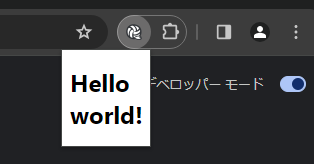
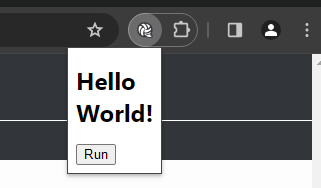
[update]ex03 - Add options

diff --git a/my-extension/options.html b/my-extension/options.html
@@ -1,0 +1,22 @@
+<!DOCTYPE html>
+<html>
+<style>
+.color {
+  width: 4rem;
+  height: 3rem;
+  margin: .5rem;
+  color: #666;
+  border: 0;
+}
+</style>
+<body>
+  <h1>Options</h1>
+  <div>
+    <button class="color" style="background: #fcc">Pink</button>
+    <button class="color" style="background: #cfc">Green</button>
+    <button class="color" style="background: #ccf">Blue</button>
+  </div>
+  <div id="msg"></div>
+  <script src="options.js"></script>
+</body>
+</html>

diff --git a/my-extension/options.js b/my-extension/options.js
@@ -1,0 +1,10 @@
+document.querySelectorAll(".color").forEach((elm) => {
+  elm.addEventListener("click", (e) => {
+    var options = {
+      colorValue: e.target.style.backgroundColor,
+      colorName: e.target.innerText
+    }
+    chrome.storage.sync.set(options);
+    document.querySelector("#msg").innerText = `Set color to ${options.colorName}.`;
+  });
+});

diff --git a/my-extension/popup.js b/my-extension/popup.js
@@ -7,5 +7,7 @@ document.getElementById("btn").addEventListener("click", async () => {
 });
 
 function onRun() {
-  document.body.style.backgroundColor = "#fcc";
+  chrome.storage.sync.get(null, (options) => {
+    document.body.style.backgroundColor = options.colorValue;
+  });
 }

diff --git a/my-extension/popup.html b/my-extension/popup.html
@@ -2,7 +2,7 @@
 <html>
 
 <body>
-  <h1>Hello World - Chrome Extensions</h1>
+  <h1>Hello World!</h1>
   <button id="btn">Run</button>
   <script src="popup.js"></script>
 </body>

diff --git a/README.md b/README.md
@@ -2,7 +2,7 @@
 
 ![image](img/image.png)
 
-## Setup
+## セットアップ
 
 バージョン ( chrome://settings/help ) :
 
@@ -26,7 +26,12 @@ Chrome は最新の状態です
 
 ※ 拡張機能を更新した場合、設定画面の `更新` をクリックして再読み込みする必要がある。
 
-## Reference
+## その他機能
+
+- `Run` ボタンをクリックすると、背景色を変更できる。
+- 背景色は、拡張機能を右クリック > `オプション` から変更できる。
+
+## 参考文献
 
 - [とほほのChrome拡張機能開発入門 - とほほのWWW入門](https://www.tohoho-web.com/ex/chrome_extension.html)
 - [マニフェスト - アイコン  \|  Extensions  \|  Chrome for Developers](https://developer.chrome.com/docs/extensions/reference/manifest/icons?hl=ja)
